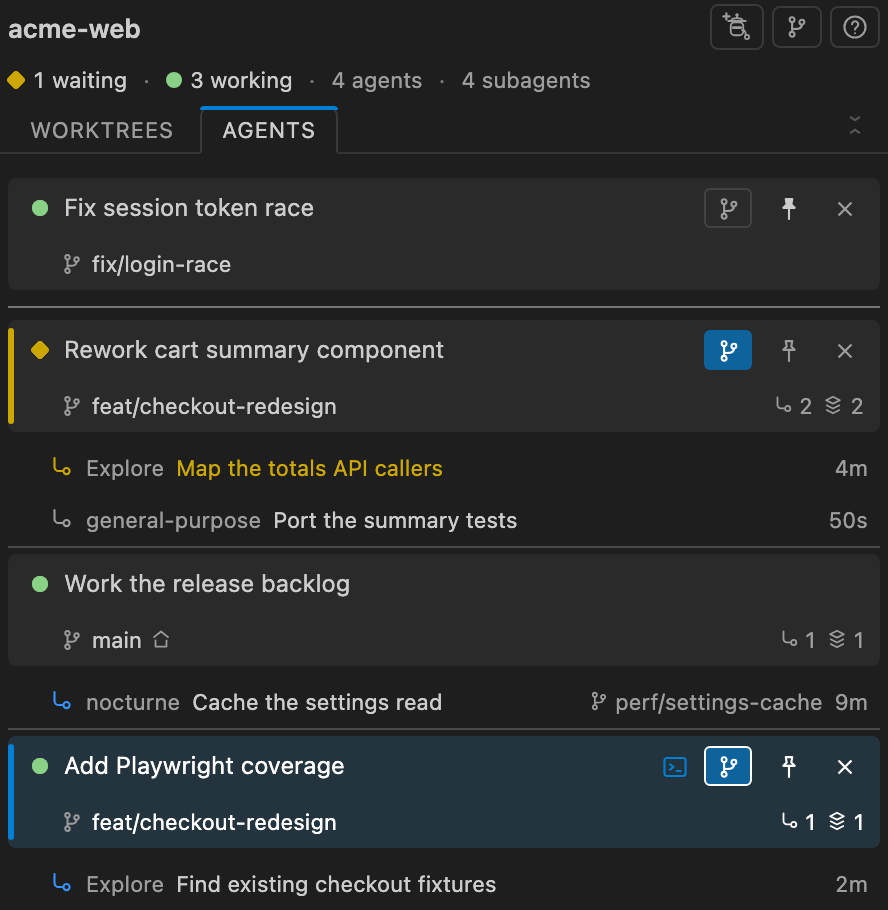
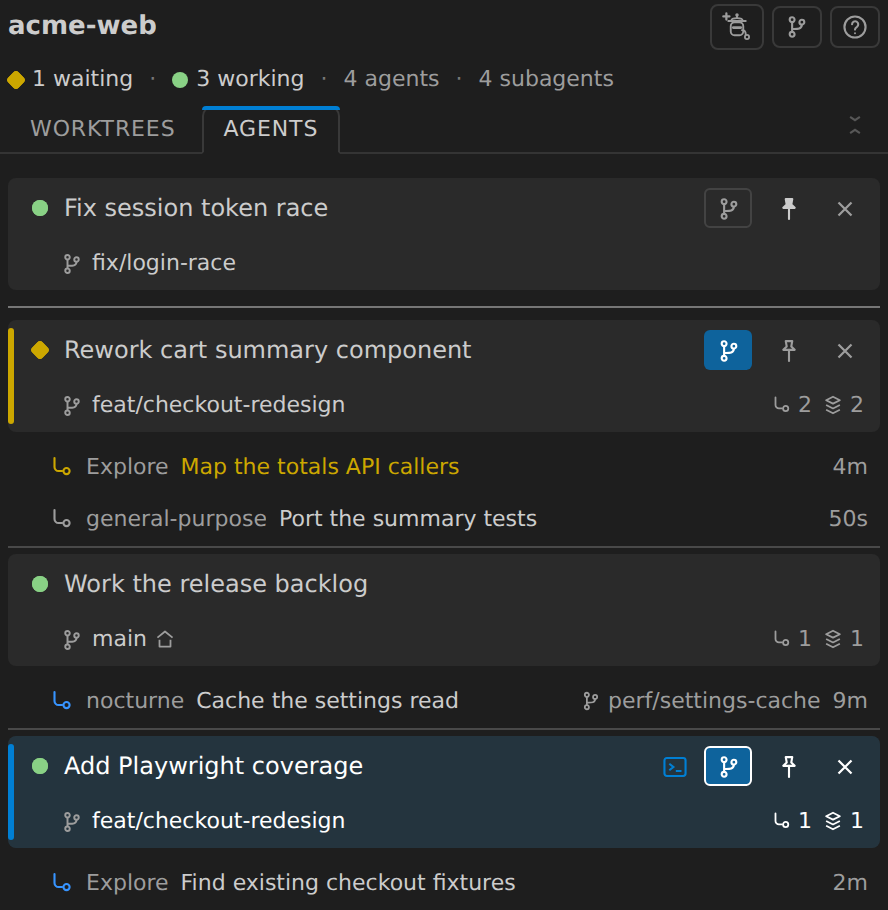
Changelog and screenshots for 4.6.12
The framed group headers landed in #126 without a changelog entry or
regenerated listing images. Add the 4.6.12 section and re-run the
screenshot suite so the listing shows the headers as they now draw.

Claude-Session: https://claude.ai/code/session_01RENpW6Kg26dXLYofKHDj9K

diff --git a/CHANGELOG.md b/CHANGELOG.md
@@ -2,6 +2,14 @@
 
 All notable changes to the Agent Worktrees extension are documented here.
 
+## 4.6.12
+
+### Changes
+
+- **Group headers have a border.** A folded section no longer floats on the
+  panel background, so where one group ends and the next begins is visible, and
+  so is the edge of the row that folds it.
+
 ## 4.6.11
 
 ### Changes
